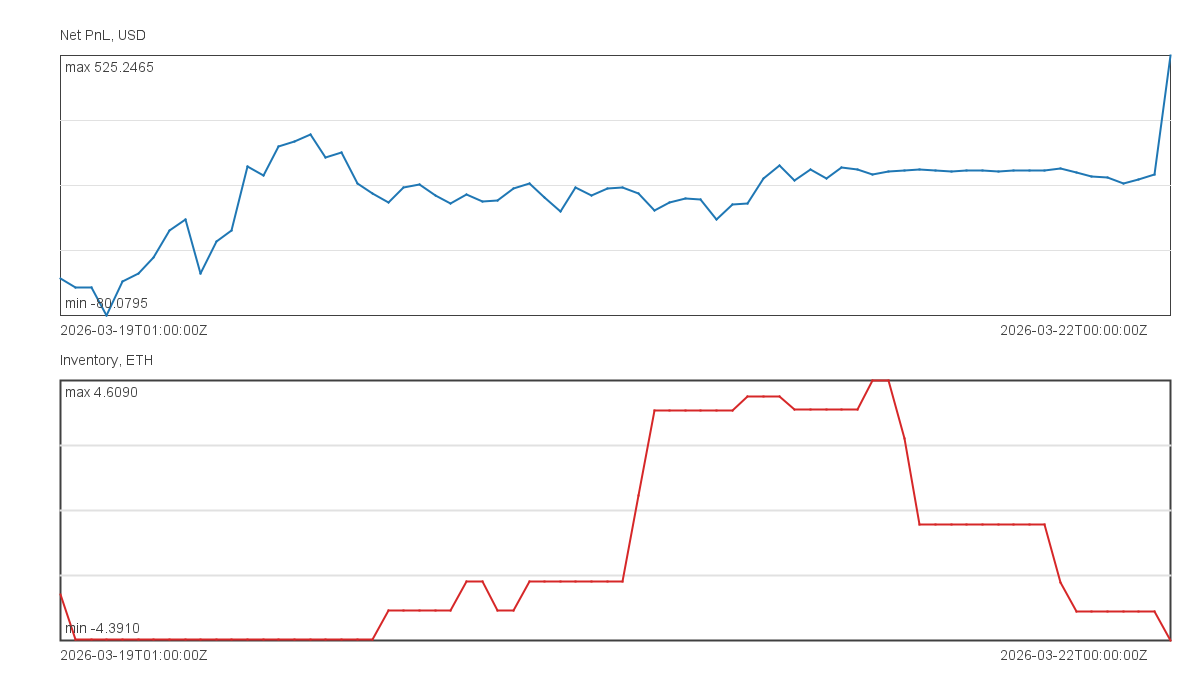
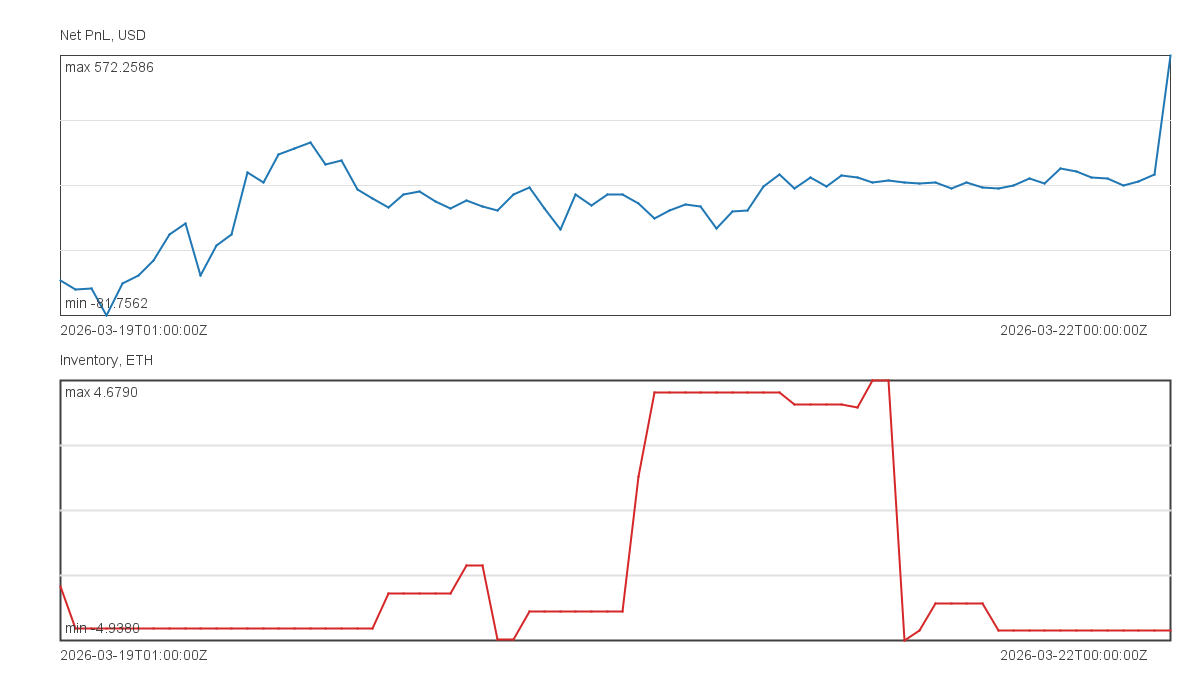
profitable MFT

diff --git a/src/main/java/ru/egor/BaseImbalanceStrategy.java b/src/main/java/ru/egor/BaseImbalanceStrategy.java
@@ -3,9 +3,9 @@ package ru.egor;
 public final class BaseImbalanceStrategy implements MarketMakingStrategy {
     public static final long DEFAULT_IMBALANCE_WINDOW_NANOS = 120_000_000_000L;
     public static final long DEFAULT_AGGRESSION_WINDOW_NANOS = 120_000_000_000L;
-    public static final double DEFAULT_AGGRESSION_RATIO = 1.01;
-    public static final double WINDOW_IMBALANCE_RATIO = 1.6;
-    public static final double INSTANT_IMBALANCE_RATIO = 1.05;
+    public static final double DEFAULT_AGGRESSION_RATIO = 1.01; // 1.01
+    public static final double WINDOW_IMBALANCE_RATIO = 1.6;   // 1.6
+    public static final double INSTANT_IMBALANCE_RATIO = 1.2;
     public static final int DEFAULT_ROLLING_BOOK_LEVELS = 5;
     public static final int DEFAULT_INSTANT_BOOK_LEVELS = 20;
 
@@ -124,7 +124,14 @@ public final class BaseImbalanceStrategy implements MarketMakingStrategy {
                 aggressionRatio
         );
 
-        return filterAllowedSides(baselineOrders, windowSignal, instantSignal, aggressionSignal);
+        return filterAllowedSides(
+                baselineOrders,
+                projectedBid,
+                projectedAsk,
+                windowSignal,
+                instantSignal,
+                aggressionSignal
+        );
     }
 
     // Один snapshot добавляется в окно ровно один раз, даже если стратегия вызывается
@@ -180,25 +187,31 @@ public final class BaseImbalanceStrategy implements MarketMakingStrategy {
     // Моментальный TOP20 сейчас рассчитан, но вручную исключен из условия.
     private DesiredOrders filterAllowedSides(
             DesiredOrders baselineOrders,
+            Order projectedBid,
+            Order projectedAsk,
             ImbalanceSignal windowSignal,
             ImbalanceSignal instantSignal,
             ImbalanceSignal aggressionSignal
     ) {
         if (windowSignal == ImbalanceSignal.BID_DOMINANT
                 //&& instantSignal == ImbalanceSignal.BID_DOMINANT
-                && aggressionSignal == ImbalanceSignal.BID_DOMINANT) {
+                //&& aggressionSignal == ImbalanceSignal.BID_DOMINANT
+        ) {
             return new DesiredOrders(
                     quoteOrCancel(baselineOrders.getBid()),
+                    //keepOrQuoteOrCancel(baselineOrders.getBid(), projectedBid),
                     OrderInstruction.cancel()
             );
         }
 
         if (windowSignal == ImbalanceSignal.ASK_DOMINANT
                 //&& instantSignal == ImbalanceSignal.ASK_DOMINANT
-                && aggressionSignal == ImbalanceSignal.ASK_DOMINANT) {
+                //&& aggressionSignal == ImbalanceSignal.ASK_DOMINANT
+        ) {
             return new DesiredOrders(
                     OrderInstruction.cancel(),
                     quoteOrCancel(baselineOrders.getAsk())
+                    //keepOrQuoteOrCancel(baselineOrders.getAsk(), projectedAsk)
             );
         }
 
@@ -223,6 +236,18 @@ public final class BaseImbalanceStrategy implements MarketMakingStrategy {
     private OrderInstruction keepOrCancel(DesiredOrder desiredOrder) {
         if (desiredOrder == null) {
             return OrderInstruction.cancel();
+        }
+        return OrderInstruction.keep();
+    }
+
+    // Если ордер уже есть или стоит в pending-командах, оставляем его.
+    // Если стороны еще нет, создаем baseline-ордер; если baseline запретил сторону, отменяем.
+    private OrderInstruction keepOrQuoteOrCancel(DesiredOrder desiredOrder, Order projectedOrder) {
+        if (desiredOrder == null) {
+            return OrderInstruction.cancel();
+        }
+        if (projectedOrder == null) {
+            return OrderInstruction.quote(desiredOrder);
         }
         return OrderInstruction.keep();
     }

diff --git a/src/main/java/ru/egor/BacktestRunner.java b/src/main/java/ru/egor/BacktestRunner.java
@@ -156,7 +156,7 @@ public final class BacktestRunner {
                 forgetDesiredOrder(order.getSide());
                 continue;
             }
-            order.initializeQueue(findVisibleQuantity(order));
+            order.initializeQueue(findVisibleQuantityAtOrderPrice(order));
         }
     }
 
@@ -185,9 +185,9 @@ public final class BacktestRunner {
         desiredOrders = new DesiredOrders(bid, ask);
     }
 
-    // Считает видимый объем с лучшим или равным price priority перед нашим ордером.
-    // Новый пассивный уровень внутри spread по-прежнему получает нулевую очередь.
-    private double findVisibleQuantity(Order order) {
+    // Считает только видимый объем на цене нашего ордера: лучшие уровни уже учтены
+    // отдельной проверкой достижения цены и не должны второй раз попадать в очередь.
+    private double findVisibleQuantityAtOrderPrice(Order order) {
         double visibleQuantity = 0.0;
 
         for (int levelIndex = 0; levelIndex < OrderBookEvent.LEVEL_COUNT; levelIndex++) {
@@ -205,13 +205,10 @@ public final class BacktestRunner {
                 continue;
             }
 
-            boolean hasPricePriority;
-            if (order.getSide() == OrderSide.BUY) {
-                hasPricePriority = levelPrice >= order.getPrice();
-            } else {
-                hasPricePriority = levelPrice <= order.getPrice();
-            }
-            if (hasPricePriority) {
+            // При price-time priority перед нами стоят только уже видимые заявки
+            // на той же цене. Trade на нашей цене или хуже подтверждает, что рынок
+            // уже прошел все лучшие уровни.
+            if (Double.compare(levelPrice, order.getPrice()) == 0) {
                 visibleQuantity += levelQuantity;
             }
         }

diff --git a/src/test/java/ru/egor/BacktestRunnerFillTest.java b/src/test/java/ru/egor/BacktestRunnerFillTest.java
@@ -94,7 +94,7 @@ class BacktestRunnerFillTest {
     }
 
     @Test
-    void sellQueueIncludesBetterAskLevelsBeforeOrderPrice() {
+    void sellQueueIncludesOnlyVolumeAtOrderPrice() {
         BacktestRunner runner = runner(10L, 1_000L);
         runner.processEvent(orderBook(
                 100L,
@@ -112,9 +112,9 @@ class BacktestRunnerFillTest {
         runner.processEvent(new FundingRateEvent(111L, 0.0));
 
         Order order = runner.getOrderManager().getActiveOrder(OrderSide.SELL);
-        assertEquals(10.0, order.getQueueAhead());
+        assertEquals(4.0, order.getQueueAhead());
 
-        runner.processEvent(new TradeEvent(112L, 102.0, 9.0, true));
+        runner.processEvent(new TradeEvent(112L, 102.0, 3.0, true));
         assertEquals(1.0, order.getQueueAhead());
         assertEquals(0.0, runner.getInventory());
 
@@ -124,7 +124,7 @@ class BacktestRunnerFillTest {
     }
 
     @Test
-    void buyQueueIncludesBetterBidLevelsBeforeOrderPrice() {
+    void buyQueueIncludesOnlyVolumeAtOrderPrice() {
         BacktestRunner runner = runner(10L, 1_000L);
         runner.processEvent(orderBook(
                 100L,
@@ -142,9 +142,9 @@ class BacktestRunnerFillTest {
         runner.processEvent(new FundingRateEvent(111L, 0.0));
 
         Order order = runner.getOrderManager().getActiveOrder(OrderSide.BUY);
-        assertEquals(9.0, order.getQueueAhead());
+        assertEquals(4.0, order.getQueueAhead());
 
-        runner.processEvent(new TradeEvent(112L, 99.0, 8.0, false));
+        runner.processEvent(new TradeEvent(112L, 99.0, 3.0, false));
         assertEquals(1.0, order.getQueueAhead());
         assertEquals(0.0, runner.getInventory());
 

diff --git a/src/main/java/ru/egor/BacktestParameters.java b/src/main/java/ru/egor/BacktestParameters.java
@@ -1,11 +1,11 @@
 package ru.egor;
 
 public final class BacktestParameters {
-    public static final double DEFAULT_ORDER_SIZE = 2.;
-    public static final double DEFAULT_HARD_INVENTORY_LIMIT = 15.0;
+    public static final double DEFAULT_ORDER_SIZE = 1.;
+    public static final double DEFAULT_HARD_INVENTORY_LIMIT = 5.0;
     public static final long DEFAULT_ORDER_LATENCY_NANOS = 10_000_000L;
     public static final long DEFAULT_MAX_BOOK_AGE_NANOS = 1_000_000_000L;
-    public static final double DEFAULT_MAKER_FEE_BPS = 1.0; // сотая доля процента
+    public static final double DEFAULT_MAKER_FEE_BPS = .0; // сотая доля процента
     public static final double MIN_EXIT_PROFIT_USD = 11110.1;
 
 

diff --git a/src/main/java/ru/egor/Main.java b/src/main/java/ru/egor/Main.java
@@ -14,10 +14,9 @@ public final class Main {
         List<Event> eventTape = initializeEventTape();
 
         BacktestParameters parameters = BacktestParameters.baseline();
-        MarketMakingStrategy strategy = new PriceMagnetStrategy(
+        MarketMakingStrategy strategy = new BaseImbalanceStrategy(
                 parameters.getOrderSize(),
-                parameters.getHardInventoryLimit(),
-                parameters.getOrderLatencyNanos()
+                parameters.getHardInventoryLimit()
         );
         BacktestRunner backtestRunner = new BacktestRunner(parameters, strategy);
         BacktestResult result = backtestRunner.run(eventTape);

diff --git a/FILL.md b/FILL.md
@@ -21,7 +21,7 @@
 Baseline использует консервативное приближение:
 
 1. Ордер появляется на бирже только после latency.
-2. Видимый объем с лучшим или равным price priority считается очередью перед нами.
+2. Видимый объем на цене ордера считается очередью перед нами.
 3. Очередь уменьшается только реальными trades подходящей стороны и цены.
 4. Исчезновение L2-объема без trade не улучшает нашу очередь.
 5. После исчерпания очереди оставшийся trade volume исполняет наш ордер.
@@ -112,10 +112,10 @@ effectiveTime < eventTime
 
 - если по последнему известному snapshot buy-ордер пересекает best ask или sell-ордер
   пересекает best bid, такой ордер отклоняется и не становится активным maker-ордером;
-- для buy-ордера весь видимый bid-объем с ценой выше или равной цене ордера считается
-  очередью перед нами;
-- для sell-ордера весь видимый ask-объем с ценой ниже или равной цене ордера считается
-  очередью перед нами;
+- для buy- и sell-ордера очередью перед нами считается только видимый объем на той
+  же цене;
+- лучшие ценовые уровни в `queueAhead` не включаются: условие подходящего trade уже
+  отдельно подтверждает, что агрессор дошел до цены нашего ордера;
 - если мы создаем новый пассивный уровень внутри spread, `queueAhead = 0`;
 - baseline S0 котирует best bid/ask, поэтому цена обычно совпадает с видимым уровнем;
 - ордер на цене вне доступных 20 уровней не выставляется: очередь там неизвестна;

diff --git a/BASE_RESEARCH.md b/BASE_RESEARCH.md
@@ -166,10 +166,10 @@ Partial fill не пополняется до `1.0 ETH`: остаток прод
 ## Очередь и исполнение ордера
 
 1. Pending place не имеет очереди и не может исполниться. В момент активации после
-   latency ордер получает `queueAhead`, равный видимому объему с лучшим или равным
-   price priority в последнем уже известном snapshot. Для buy это bid-уровни с ценой
-   выше или равной цене ордера, для sell — ask-уровни с ценой ниже или равной цене
-   ордера. Если ордер создает новый пассивный уровень внутри spread, `queueAhead = 0`.
+   latency ордер получает `queueAhead`, равный видимому объему на той же цене в
+   последнем уже известном snapshot. Лучшие уровни не включаются: подходящая цена
+   trade отдельно подтверждает, что агрессор уже дошел до цены ордера. Если ордер
+   создает новый пассивный уровень внутри spread, `queueAhead = 0`.
 2. Если по последнему известному snapshot ордер после latency стал marketable, baseline
    не моделирует taker execution и отклоняет такой ордер. Для buy это `bestAsk <= price`,
    для sell — `bestBid >= price`.
